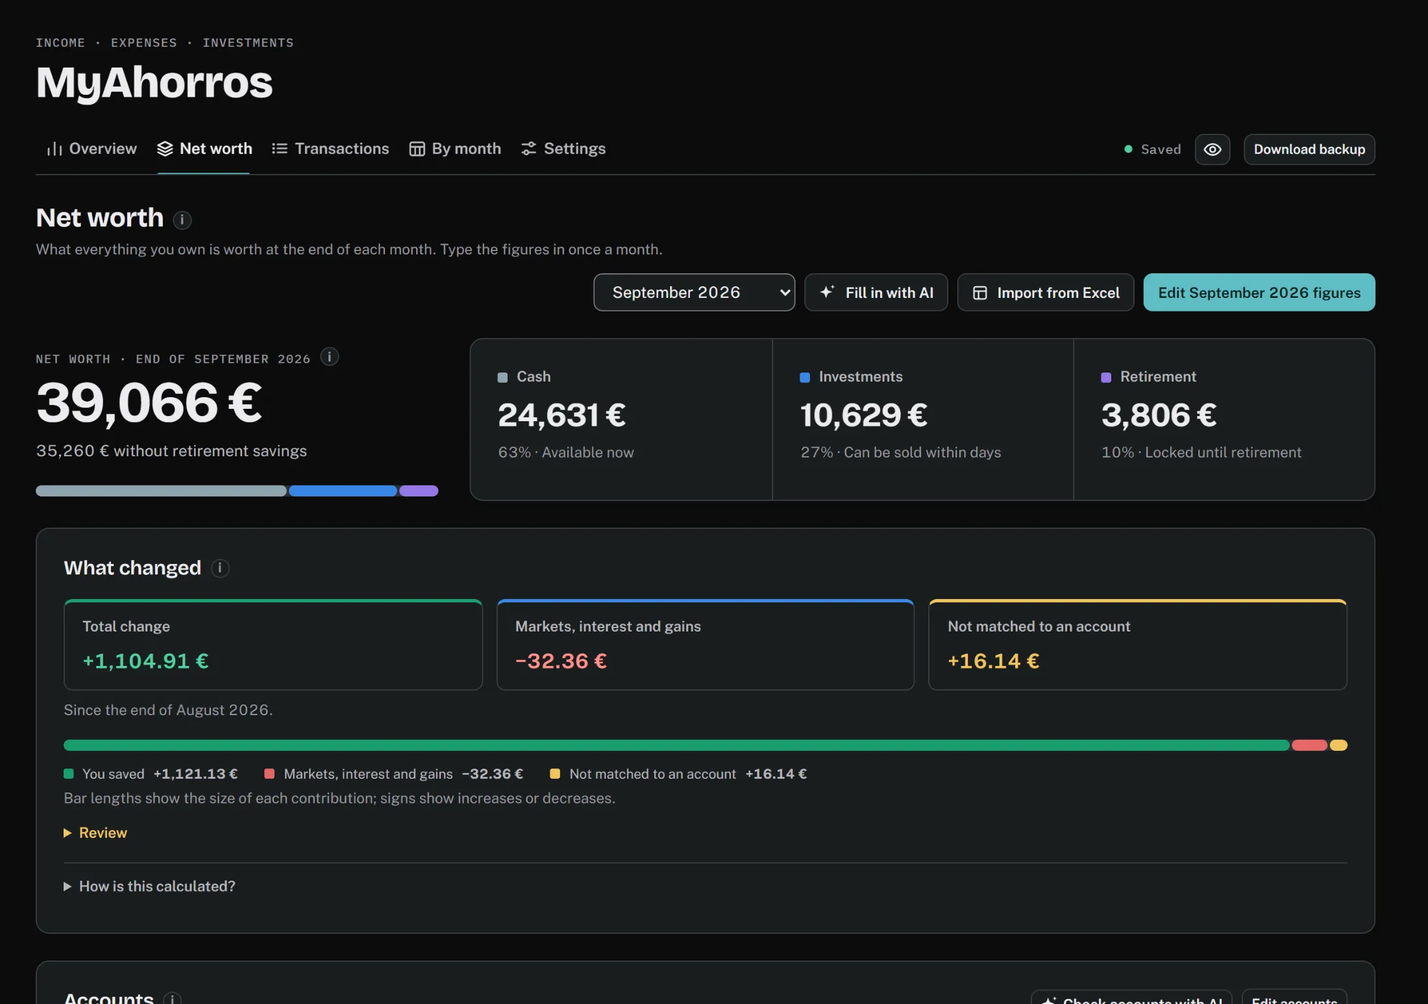
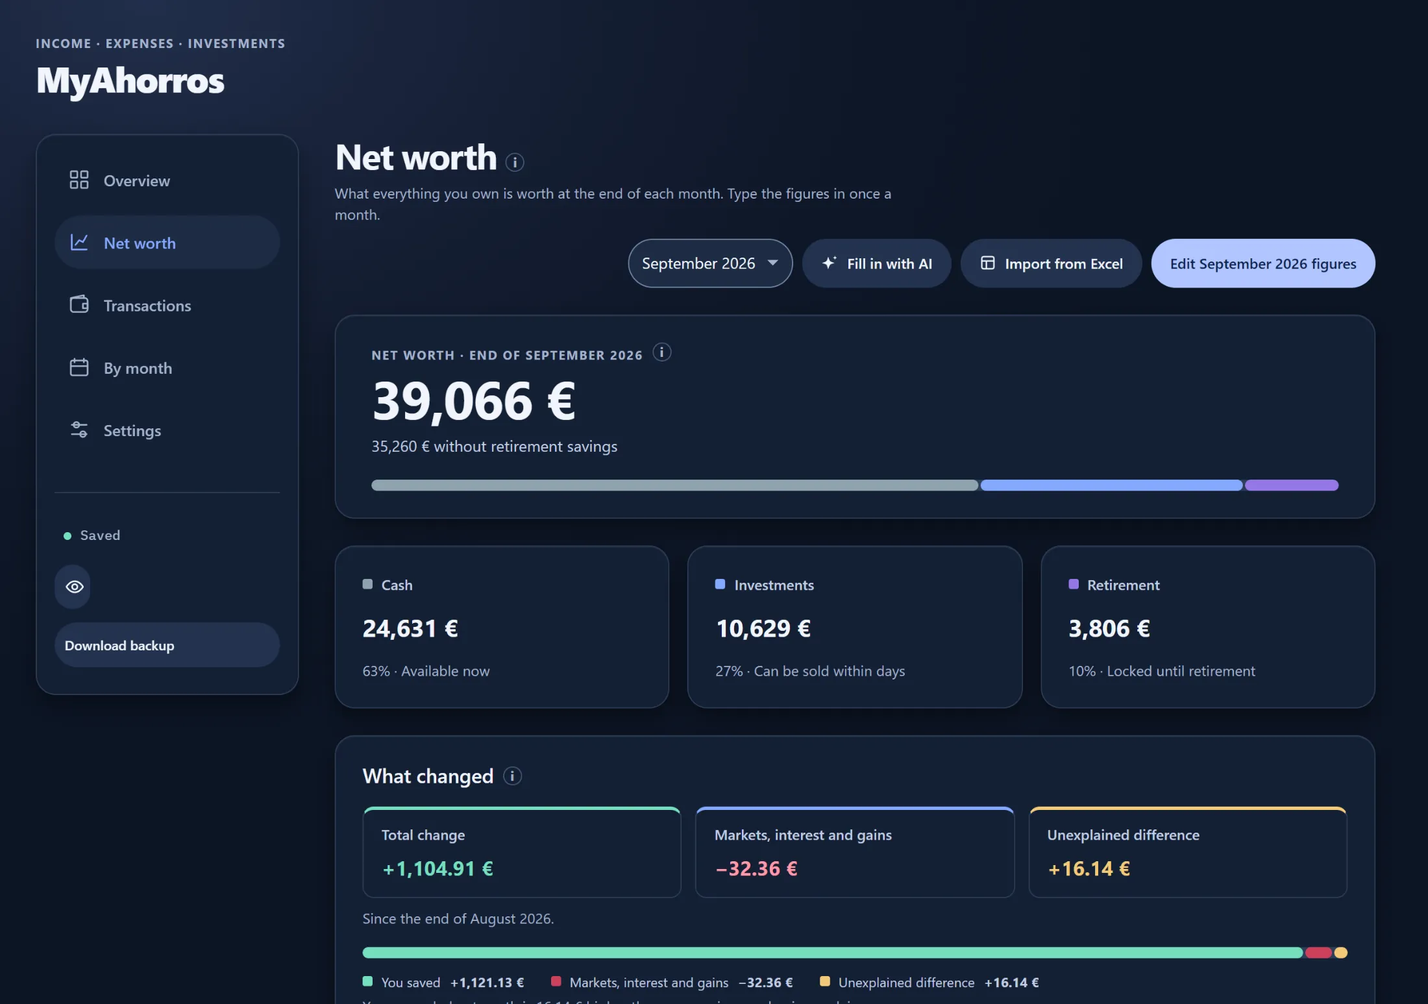
fix: refresh landing graphics and guided tutorial

diff --git a/index.html b/index.html
@@ -11,7 +11,7 @@
 <meta name="twitter:card" content="summary">
 <meta name="theme-color" content="#2459E0">
 <meta name="referrer" content="no-referrer">
-<meta http-equiv="Content-Security-Policy" content="default-src 'self'; script-src 'self' 'sha256-VsZ+eD9J2oe+2nDcPhc6KgiliqVS0t1G9kP+jkK26tw=' https://accounts.google.com/gsi/client; style-src 'self' 'unsafe-inline' https://accounts.google.com/gsi/style; font-src 'self'; img-src 'self' data: blob: https://myahorrosapp.goatcounter.com; connect-src 'self' https://www.googleapis.com https://accounts.google.com/gsi/ https://api.anthropic.com https://api.openai.com https://generativelanguage.googleapis.com; frame-src https://accounts.google.com/gsi/; worker-src 'self' blob:; manifest-src 'self'; object-src 'none'; base-uri 'none'; form-action 'none'">
+<meta http-equiv="Content-Security-Policy" content="default-src 'self'; script-src 'self' 'sha256-4o6f5OqTnxI3ERCCW9thq9g+Sw1qFEakW2Bucy80nm8=' https://accounts.google.com/gsi/client; style-src 'self' 'unsafe-inline' https://accounts.google.com/gsi/style; font-src 'self'; img-src 'self' data: blob: https://myahorrosapp.goatcounter.com; connect-src 'self' https://www.googleapis.com https://accounts.google.com/gsi/ https://api.anthropic.com https://api.openai.com https://generativelanguage.googleapis.com; frame-src https://accounts.google.com/gsi/; worker-src 'self' blob:; manifest-src 'self'; object-src 'none'; base-uri 'none'; form-action 'none'">
 <link rel="manifest" href="manifest.webmanifest">
 <link rel="icon" href="icons/icon-192.png" type="image/png">
 <link rel="apple-touch-icon" href="icons/apple-touch-icon.png">
@@ -2092,14 +2092,16 @@ const STR={
   tour_intro:[['Welcome to your tracker','Here’s a two-minute tour with a made-up example, so you can see every page full of data. Nothing in the example is saved, and your own tracker comes back at the end.'],['Bienvenido a tu control','Esto es un recorrido de dos minutos con un ejemplo inventado, para que veas cada página llena de datos. Nada del ejemplo se guarda y tu control vuelve al terminar.']],
   tour_tabs:[['Five pages','Overview for the big picture, Net worth for what you own, Transactions for the rows themselves, By month for every figure, and Settings, where your categories and keywords are too.'],['Cinco páginas','Resumen para la visión general, Patrimonio para lo que tienes, Movimientos para las filas en sí, Por meses para cada cifra, y Ajustes, donde también están tus categorías y palabras clave.']],
   tour_ovTop:[['Your year at a glance','How much you kept after expenses this year, and your totals for income, expenses and investments. Any i button explains what a figure means.'],['Tu año de un vistazo','Cuánto has conservado este año tras los gastos y tus totales de ingresos, gastos e inversiones. Cualquier botón i explica qué significa una cifra.']],
-  tour_ovMonth:[['This month','How the month in progress is going: what you’ve spent so far against a normal month, and against any monthly limits.'],['Este mes','Cómo va el mes en curso: lo que llevas gastado frente a un mes normal y frente a los límites mensuales.']],
+  tour_ovMonth:[['Compare months','Choose a month and compare it with the previous month or the same month last year. See how income, expenses, savings and investments changed; click a figure to inspect the selected month’s transactions.'],['Comparar meses','Elige un mes y compáralo con el mes anterior o el mismo mes del año pasado. Mira cómo cambiaron los ingresos, gastos, ahorros e inversiones; pulsa una cifra para revisar los movimientos del mes elegido.']],
+  tour_ovAnalysis:[['More analysis','This button opens the optional charts, category breakdowns and income targets. The tour opens them for the next step; you can fold them away whenever you want.'],['Más análisis','Este botón abre los gráficos, el desglose por categorías y los objetivos de ingresos opcionales. El recorrido los abre en el siguiente paso; puedes ocultarlos cuando quieras.']],
   tour_ovMonthly:[['Monthly','Each month’s income, expenses or investments, then your categories biggest first and how your income splits against targets. Click a bar or a category to see what’s behind it.'],['Mes a mes','Los ingresos, gastos o inversiones de cada mes; después tus categorías de más a menos y cómo se reparten tus ingresos frente a unos objetivos. Pulsa una barra o una categoría para ver lo que hay detrás.']],
-  tour_yearly:[['Every figure, every month','Laid out like a spreadsheet: categories down the side, months across. Click any figure to see its transactions. The heat map shows where most of the money went each month.'],['Cada cifra, cada mes','Como una hoja de cálculo: categorías a un lado y meses en columnas. Pulsa cualquier cifra para ver sus movimientos. El mapa de calor muestra a dónde fue más dinero cada mes.']],
-  tour_txImport:[['Bring in your bank’s export','Paste rows or choose your bank’s file (.csv or .xlsx), or let an AI read statements and PDFs for you. Each row is sorted into Income, Expenses or Investments and gets its category from your keywords, or a guess learned from your past rows. You check every row before it’s saved.'],['Trae el extracto de tu banco','Pega filas o elige el archivo de tu banco (.csv o .xlsx), o deja que una IA lea tus extractos y PDF. Cada fila va a Ingresos, Gastos o Inversiones y recibe su categoría según tus palabras clave, o una sugerencia aprendida de tus filas anteriores. Revisas cada fila antes de guardarla.']],
+  tour_yearly:[['Every figure, every month','Switch between One month and Year grid. In One month, choose a month and click a category to inspect its transactions. Year grid lays out categories and months like a spreadsheet: click a cell to see its rows, or turn on the heat map to compare spending within each month.'],['Cada cifra, cada mes','Alterna entre Un mes y Tabla anual. En Un mes, elige un mes y pulsa una categoría para revisar sus movimientos. Tabla anual organiza categorías y meses como una hoja de cálculo: pulsa una celda para ver sus filas o activa el mapa de calor para comparar gastos dentro de cada mes.']],
+  tour_txImport:[['Bring in your statements','Paste rows or choose one or several statement files. Choose each file’s account before reading it. CSV and Excel are read on your device. AI is optional; it can also read PDFs and pictures. Review the amounts, categories, account links and possible duplicates before saving.'],['Trae tus extractos','Pega filas o elige uno o varios archivos de extractos. Elige la cuenta de cada archivo antes de leerlo. CSV y Excel se leen en tu dispositivo. La IA es opcional; también puede leer PDF e imágenes. Revisa importes, categorías, cuentas vinculadas y posibles duplicados antes de guardar.']],
   tour_catList:[['Your categories and keywords','Rename, add or remove categories, mark each expense as Fixed or Variable, and set monthly limits. A keyword like “netflix” puts every matching row in its category by itself.'],['Tus categorías y palabras clave','Cambia el nombre, añade o quita categorías, marca cada gasto como Fijo o Variable y pon límites mensuales. Una palabra clave como «netflix» pone sola cada fila que la contenga en su categoría.']],
-  tour_nwAccounts:[['Accounts and gains','Each account’s value, its change since last month and its Gains: how much it grew on its own (prices, interest, dividends), apart from money you put in. “How is this calculated?” under the table explains it.'],['Cuentas y ganancias','El valor de cada cuenta, su cambio desde el mes pasado y sus Ganancias: cuánto creció por sí sola (precios, intereses, dividendos), sin contar lo que aportaste. «¿Cómo se calcula?» debajo de la tabla lo explica.']],
+  tour_nwAccounts:[['Accounts and gains','Net money in/out shows cash movement or net investment contributions; Gains shows returns separately. Link transactions to their accounts and review missing links. Mark reinvested dividends as “Stayed in the investment” so they don’t count as cash income. “How is this calculated?” explains the figures.'],['Cuentas y ganancias','Entradas/salidas netas muestra movimientos de efectivo o aportaciones netas a inversiones; Ganancias muestra los rendimientos por separado. Vincula los movimientos a sus cuentas y revisa los que no tengan vínculo. Marca los dividendos reinvertidos como «Reinvertido en la inversión» para que no cuenten como ingresos en efectivo. «¿Cómo se calcula?» explica las cifras.']],
   tour_nwTop:[['What you own','Once a month, type what each account is worth, or import several months from Excel. Accounts are grouped by how soon you could use the money.'],['Lo que tienes','Una vez al mes, escribe lo que vale cada cuenta o importa varios meses desde Excel. Las cuentas se agrupan según lo pronto que podrías usar el dinero.']],
-  tour_nwCards:[['Why it changed, and your goal','What changed splits each month into what you saved and what markets added. Goal shows what you need a month and how much would have to come from growth.'],['Por qué cambió y tu objetivo','Qué ha cambiado reparte cada mes entre lo que ahorraste y lo que aportaron los mercados. Objetivo muestra cuánto hace falta al mes y cuánto tendría que venir del crecimiento.']],
+  tour_nwCards:[['What changed','See how much of the change came from saving and from markets, interest and gains. Any unexplained amount needs a check: use “Explain this difference” to inspect balances, transactions and account links.'],['Qué ha cambiado','Mira cuánto del cambio vino del ahorro y cuánto de mercados, intereses y plusvalías. Cualquier importe sin explicar necesita revisión: usa «Entender esta diferencia» para comprobar saldos, movimientos y cuentas vinculadas.']],
+  tour_nwAnalysis:[['Goal','More analysis opens the net worth chart, financial health, this goal and a savings scenario. Goal shows your progress and monthly saving needed; the scenario lets you try extra monthly savings without changing your recorded figures.'],['Objetivo','Más análisis abre el gráfico de patrimonio, la salud financiera, este objetivo y un escenario de ahorro. Objetivo muestra tu progreso y el ahorro mensual necesario; el escenario permite probar un ahorro mensual adicional sin cambiar las cifras guardadas.']],
   tour_end:[['That’s the tour','The button below puts the example away and brings back your own tracker, just as you left it. Everything you change there is saved straight away; the eye hides all amounts on screen. You can take the tour again from Settings, and the i buttons next to titles explain each figure.'],['Fin del recorrido','El botón de abajo quita el ejemplo y te devuelve tu propio control, tal como lo dejaste. Todo lo que cambies en él se guarda al momento; el ojo oculta todos los importes de la pantalla. Puedes repetir el recorrido desde Ajustes, y los botones i junto a los títulos explican cada cifra.']],
   tour_endNew:[['That’s the tour','Now it’s your turn. The button below puts the example away and starts the setup guide: first your accounts on Net worth, then your transactions. In your own tracker every change is saved straight away. You can take the tour again from Settings, and the i buttons next to titles explain each figure.'],['Fin del recorrido','Ahora te toca a ti. El botón de abajo quita el ejemplo y empieza la guía de configuración: primero tus cuentas en Patrimonio y luego tus movimientos. En tu propio control cada cambio se guarda al momento. Puedes repetir el recorrido desde Ajustes, y los botones i junto a los títulos explican cada cifra.']],
   hideAmounts:['Hide amounts','Ocultar importes'], showAmounts:['Show amounts','Mostrar importes'],
@@ -7022,13 +7024,15 @@ const TOUR_STEPS=[
   {k:'intro'},
   {k:'tabs',tab:'overview',el:()=>$('.tabs'),pos:'right'},   /* right: the card would otherwise cover the saved figure under the tabs */
   {k:'ovTop',tab:'overview',el:()=>$('#view .ov-top')},
-  {k:'ovMonth',tab:'overview',el:tourSec('#tm-title')},
+  {k:'ovMonth',tab:'overview',el:tourSec('#month-comparison')},
+  {k:'ovAnalysis',tab:'overview',el:()=>$('#view [data-action=analysis-toggle][data-tab=overview]')},
   {k:'ovMonthly',tab:'overview',el:tourSec('#ch-monthly')},
   {k:'nwTop',tab:'networth',el:()=>$('#view .ov-top')},
-  {k:'nwCards',tab:'networth',el:()=>$('#view .nw-two')},
+  {k:'nwCards',tab:'networth',el:()=>$('#view .nw-change')},
   {k:'nwAccounts',tab:'networth',el:()=>$('#view table.nwt')},
+  {k:'nwAnalysis',tab:'networth',el:()=>$('#view .nw-goal')},
   {k:'txImport',tab:'transactions',el:()=>$('#view .page-head [data-action=import]')},
-  {k:'yearly',tab:'yearly',el:()=>$('#view .yframe')},
+  {k:'yearly',tab:'yearly',el:()=>$('#view .yframe, #view .year-month-card')},
   {k:'catList',tab:'categories',el:tourSec('.cat-list')},
   {k:'end'}
 ];

diff --git a/js/web-shim.js b/js/web-shim.js
@@ -76,13 +76,13 @@ const TX={
     landSub:'Import a bank statement, review your spending and follow your savings. Your figures stay on your device or in your own Google Drive.',
     landNoSignup:'No sign-up. You add statements; banks are not connected automatically. AI is optional; automatic AI connections are billed separately.',
     landChip:'Free · No sign-up · Private',
-    landCalls:['Your data stays on your device','Import from Excel','Read statements with AI'],
+    landCalls:['Save on your device or your Drive','Import CSV, Excel or PDF statements','Use AI if you want to'],
     landShotAlt:'The current Net worth page with fictional figures: total savings, cash, investments and retirement balances, plus a breakdown of savings and market gains since the previous month.',
     landFeatT:'Everything in one place', landFeatSub:'Made for people who just want to know how they’re doing. No finance words needed.',
     landF:[['Income and expenses','Add what comes in and what goes out, by hand or with your bank’s file. It sorts everything into categories and puts each month side by side.'],
            ['Net worth over time','Once a month, type what each account holds. One chart shows your total growing through the year.'],
            ['Investments','See how much you put in, and how much your funds, shares or pension gained on their own.'],
-           ['A look ahead','Grey months show where you’ll likely be by December if you carry on as you have this past year.']],
+           ['A look ahead','Open More analysis for forecasts, a savings goal and a scenario showing what extra monthly savings could add.']],
     landSafeT:'Your data stays yours', landSafe:'There is no account and no server holding your figures. Keep them in a folder, in your own Google Drive or only in this browser, with a daily backup. It works offline and installs like an app.',
     landHow:'How it works', landHowSteps:[['Choose where it lives','This device, your Google Drive or a folder you manage. You can change it any time.'],['Add a statement','Start with one account and one month, or bring in your history. Review the rows before saving.'],['See your money clearly','See a monthly spending summary, then add account balances to follow your savings.']],
     landEnd:'Ready when you are', landEndSub:'Take the two-minute tour with example data, or set up your own tracker.',
@@ -169,13 +169,13 @@ const TX={
     landSub:'Importa un extracto, revisa tus gastos y sigue tus ahorros. Tus cifras se quedan en tu dispositivo o en tu propio Google Drive.',
     landNoSignup:'Sin registro. Tú añades los extractos; no hay conexión automática con tu banco. La IA es opcional; las conexiones automáticas de IA se pagan aparte.',
     landChip:'Gratis · Sin registro · Privado',
-    landCalls:['Tus datos se quedan en tu dispositivo','Importa desde Excel','Lee extractos con IA'],
+    landCalls:['Guarda en tu dispositivo o tu Drive','Importa extractos CSV, Excel o PDF','Usa IA si quieres'],
     landShotAlt:'La página actual de Patrimonio con cifras ficticias: ahorro total, saldos de efectivo, inversiones y jubilación, y un desglose del ahorro y las ganancias de mercado desde el mes anterior.',
     landFeatT:'Todo en un mismo sitio', landFeatSub:'Pensado para quien solo quiere saber cómo va. Sin palabras de finanzas.',
     landF:[['Ingresos y gastos','Apunta lo que entra y lo que sale, a mano o con el archivo de tu banco. Lo ordena todo en categorías y pone cada mes al lado del anterior.'],
            ['Tu patrimonio mes a mes','Una vez al mes, escribe cuánto hay en cada cuenta. Un gráfico te enseña cómo crece tu total a lo largo del año.'],
            ['Inversiones','Ve cuánto has aportado y cuánto han ganado solos tus fondos, acciones o plan de pensiones.'],
-           ['Mirada al futuro','Los meses en gris te enseñan dónde estarás seguramente en diciembre si sigues como este último año.']],
+           ['Mirada al futuro','Abre Más análisis para ver previsiones, un objetivo de ahorro y cuánto podría aportar ahorrar más cada mes.']],
     landSafeT:'Tus datos son tuyos', landSafe:'No hay cuenta ni servidor con tus cifras. Guárdalas en una carpeta, en tu propio Google Drive o solo en este navegador, con copia diaria. Funciona sin conexión y se instala como una app.',
     landHow:'Cómo funciona', landHowSteps:[['Elige dónde vive','Este dispositivo, tu Google Drive o una carpeta que gestionas. Puedes cambiarlo cuando quieras.'],['Añade un extracto','Empieza con una cuenta y un mes, o trae tu historial. Revisa las filas antes de guardar.'],['Ve tu dinero con claridad','Consulta el resumen de gastos del mes y añade saldos para seguir tus ahorros.']],
     landEnd:'Cuando quieras', landEndSub:'Haz el recorrido de dos minutos con datos de ejemplo, o configura tu propio control.',

diff --git a/tests/landing-wizard.e2e.js b/tests/landing-wizard.e2e.js
@@ -193,13 +193,60 @@ const SHOTS = process.env.SHOTS;
   await shot(p, 'wizard-summary');
   console.log('4d. statements, balances from the statement, salary, summary gaps');
 
-  /* 5. See a demo starts the tour */
-  p = await newPage();
-  await p.goto(START, { waitUntil: 'load' });
-  await p.waitForSelector('.web-landing [data-x=demo]');
-  await p.click('.web-landing .wl-hero [data-x=demo]');
-  await p.waitForSelector('#tour-card', { timeout: 10000 });
-  console.log('5. demo opens the tour');
+  /* 5. Every tutorial spotlight resolves, including folded analysis and the previous-year January demo. */
+  for (const [lang, width, date, scheme] of [['en', 1280, '2026-10-13', 'dark'], ['es', 1280, '2026-01-13', 'light'], ['en', 375, '2026-01-13', 'light'], ['es', 375, '2026-10-13', 'dark']]) {
+    p = await newPage();
+    await p.setViewportSize({ width, height: 860 });
+    await p.emulateMedia({ colorScheme: scheme });
+    await p.addInitScript(({ lang, date }) => {
+      window.__ybtTest = true;
+      localStorage.setItem('ybt.lang', lang);
+      const RealDate = Date, fixed = new RealDate(date + 'T12:00:00').getTime();
+      window.Date = class extends RealDate { constructor(...args) { super(...(args.length ? args : [fixed])); } static now() { return fixed; } };
+    }, { lang, date });
+    await p.goto(START, { waitUntil: 'load' });
+    const image = p.locator('.web-landing .wl-pages img');
+    await image.evaluate(img => img.decode());
+    assert.ok(await image.evaluate(img => img.naturalWidth > 0 && getComputedStyle(img).objectFit !== 'cover'), 'landing product image missing or cropped');
+    assert.strictEqual(await image.getAttribute('src'), `images/landing-networth-${scheme}${lang === 'es' ? '-es' : ''}.webp`);
+    assert.ok(await p.evaluate(() => document.querySelector('.web-landing').scrollWidth <= innerWidth), 'landing overflows horizontally');
+    await p.click('.web-landing .wl-hero [data-x=demo]');
+    await p.waitForSelector('#tour-card', { timeout: 10000 });
+    const steps = await p.evaluate(() => window.__ybt.TOUR_STEPS.map(s => s.k));
+    assert.ok(steps.includes('ovAnalysis') && steps.includes('nwAnalysis'), 'analysis steps missing');
+    for (let i = 0; i < steps.length; i++) {
+      await p.waitForFunction(i => {
+        const step = window.__ybt.TOUR_STEPS[i], card = document.querySelector('#tour-card');
+        if (!card || card.style.visibility === 'hidden') return false;
+        if (!step.el) return card.classList.contains('center');
+        const el = step.el(), spot = document.querySelector('#tour-spot');
+        return !!el && el.getClientRects().length > 0 && !spot.hidden && !card.classList.contains('center');
+      }, i).catch(async err => {
+        await shot(p, `tour-failed-${lang}-${width}-${steps[i]}`);
+        throw new Error(`${lang} ${width}px ${date} step ${steps[i]}: ${err.message}`);
+      });
+      const state = await p.evaluate(i => {
+        const step = window.__ybt.TOUR_STEPS[i], card = document.querySelector('#tour-card'), r = card.getBoundingClientRect();
+        return { key: step.k, tab: window.__ybt.S.ui.tab, title: document.querySelector('#tour-title').textContent,
+          text: document.querySelector('#tour-text').textContent, left: r.left, right: r.right, top: r.top, bottom: r.bottom };
+      }, i);
+      assert.ok(state.title && state.text && !state.text.includes('undefined'), 'missing translation for ' + state.key);
+      assert.ok(state.left >= 0 && state.right <= width && state.top >= 0 && state.bottom <= 860, 'tutorial card offscreen: ' + JSON.stringify(state));
+      if (i < steps.length - 1) {
+        const oldTitle = state.title;
+        await p.click('#tour-card [data-tour=next]');
+        await p.waitForFunction(title => document.querySelector('#tour-title').textContent !== title, oldTitle);
+      }
+    }
+    await shot(p, `tour-end-${lang}-${width}`);
+    await p.click('#tour-card [data-tour=end]');
+    await p.waitForSelector('button.web-way[data-m=browser]');
+    const saved = await p.evaluate(async () => JSON.parse(await window.__ybtWeb.idb.get('data') || '{}'));
+    assert.deepStrictEqual(saved.months || {}, {}, 'demo transactions were saved as real data');
+    assert.deepStrictEqual(saved.config?.networth?.accounts || [], [], 'demo accounts were saved as real data');
+    console.log(`5. ${lang}, ${width}px, ${date}: all ${steps.length} tutorial steps fit and highlight real targets`);
+    await p.context().close();
+  }
 
   /* 6. a small phone at 200% zoom (375x667 -> 187x333 CSS px): the where-to-save card fits, and the add dialog's
      sticky title and buttons leave its fields reachable */

diff --git a/sw.js b/sw.js
@@ -1,7 +1,7 @@
 /* MyAhorros: keeps the site's own files on the device so it opens offline.
    Only the site's files are cached; your data is never here (it lives in your folder, Drive or browser storage).
    The page itself is fetched fresh when online, so updates arrive on the next visit. */
-const VERSION='1.0.86-myahorros';
+const VERSION='1.0.87-myahorros';
 const CACHE='ybt-'+VERSION;
 const FILES=["northstar.css", "assets/northstar/background-light-glow.svg", "assets/northstar/background-dark-glow.svg", "./", "config.js", "fonts/bricolage-grotesque-latin-ext-opsz-normal.woff2", "fonts/bricolage-grotesque-latin-opsz-normal.woff2", "fonts/fonts.css", "fonts/ibm-plex-mono-latin-400-normal.woff2", "fonts/ibm-plex-mono-latin-500-normal.woff2", "fonts/ibm-plex-mono-latin-ext-400-normal.woff2", "fonts/ibm-plex-mono-latin-ext-500-normal.woff2", "fonts/public-sans-latin-ext-wght-normal.woff2", "fonts/public-sans-latin-wght-normal.woff2", "icons/apple-touch-icon.png", "icons/icon-192.png", "icons/icon-512.png", "icons/icon-maskable-512.png", "images/landing-networth-dark.webp", "images/landing-networth-light.webp", "images/landing-overview-dark.webp", "images/landing-overview-light.webp", "images/landing-yearly-dark.webp", "images/landing-yearly-light.webp", "images/landing-networth-dark-es.webp", "images/landing-networth-light-es.webp", "images/landing-overview-dark-es.webp", "images/landing-overview-light-es.webp", "images/landing-yearly-dark-es.webp", "images/landing-yearly-light-es.webp", "index.html", "js/models.js", "js/web-ai.js", "js/web-boot.js", "js/web-shim.js", "manifest.webmanifest", "privacy.html", "vendor/pdf.min.js", "vendor/pdf.worker.min.js", "vendor/xlsx.full.min.js", "web.css"];
 /* cache:'reload' skips the browser's own cache (GitHub Pages: 10 minutes), so a new version never stores an old copy of a file that kept its name */

diff --git a/web.css b/web.css
@@ -155,4 +155,4 @@
 @media (prefers-reduced-motion:reduce){.wl-card,.wl-card:hover{transition:none;transform:none}}
 @media (max-width:960px){.wl-grid{grid-template-columns:repeat(2,minmax(0,1fr))}}
 @media (max-width:720px){.wl-how ol{grid-template-columns:1fr}.wl-top .btn[data-x=demo]{display:none}.wl-view{border-radius:10px}.wl-safe{grid-template-columns:1fr}}
-@media (max-width:560px){.wl-grid{grid-template-columns:1fr}.wl-pages img{aspect-ratio:4/5;object-fit:cover;object-position:0 0}}
+@media (max-width:560px){.wl-grid{grid-template-columns:1fr}}

diff --git a/config.js b/config.js
@@ -3,5 +3,5 @@
    Leave it empty and the Google Drive option shows as not available; folders and browser storage still work. */
 window.YBT_CONFIG = {
   googleClientId: '416274493105-bhfq37fgg059vpq3akspvd6l83m2gsui.apps.googleusercontent.com',
-  version: '1.0.86'
+  version: '1.0.87'
 };
